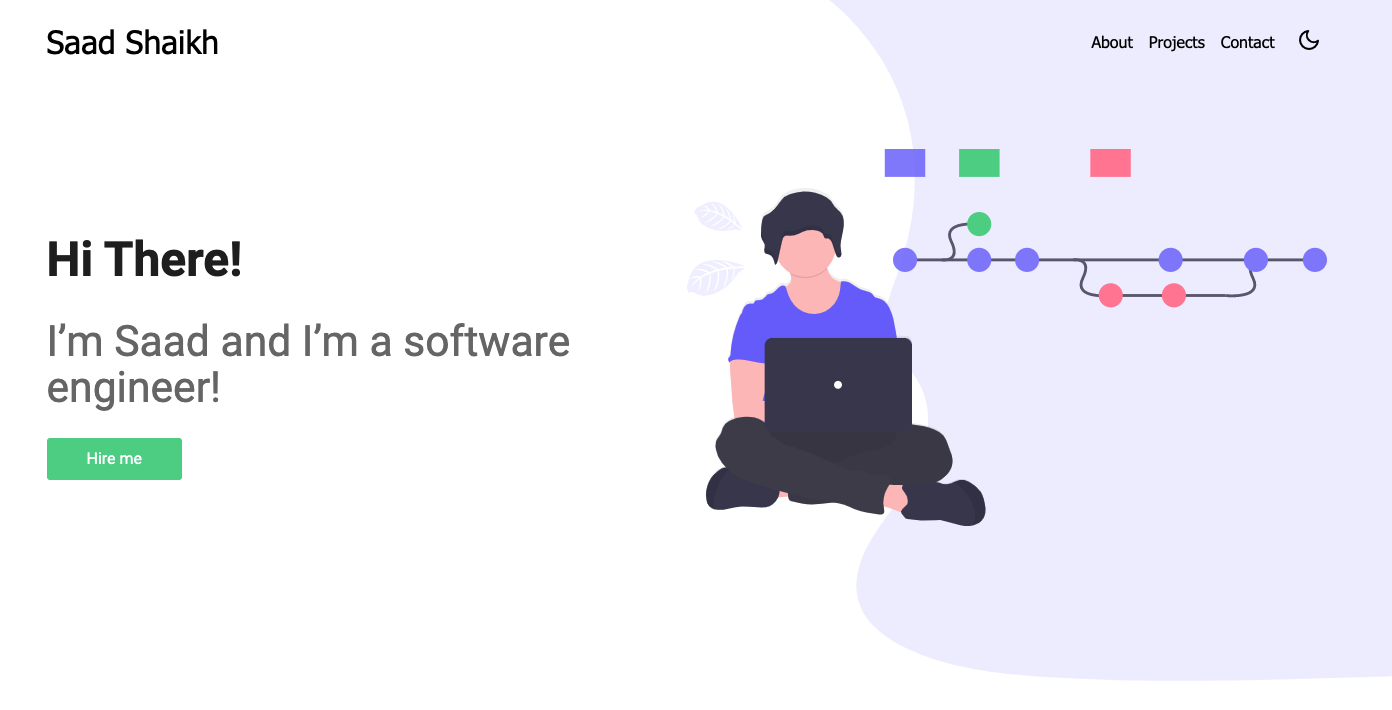
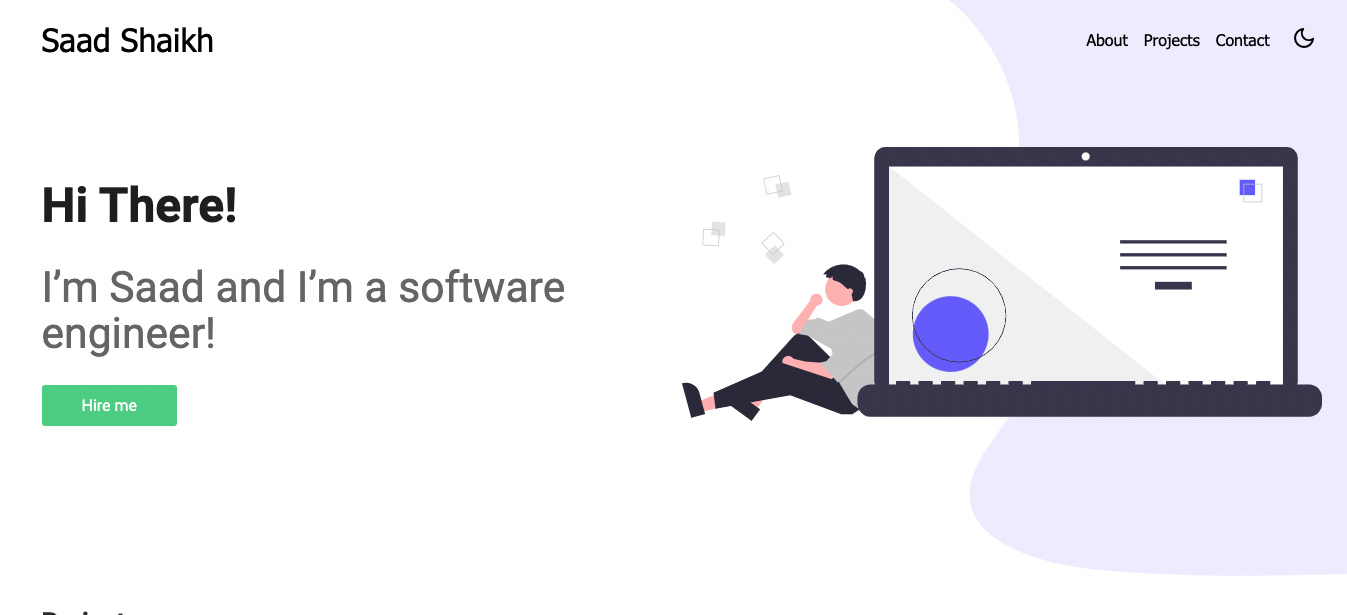
add new svgs

diff --git a/src/components/landing/Contact/index.jsx b/src/components/landing/Contact/index.jsx
@@ -1,6 +1,6 @@
 import React from 'react';
 import { Container } from 'components/common';
-import contact from 'assets/illustrations/contact.svg';
+import contact from 'assets/illustrations/meeting.svg';
 import { Wrapper, Details, Thumbnail } from './styles';
 import ContactForm from './ContactForm';
 
